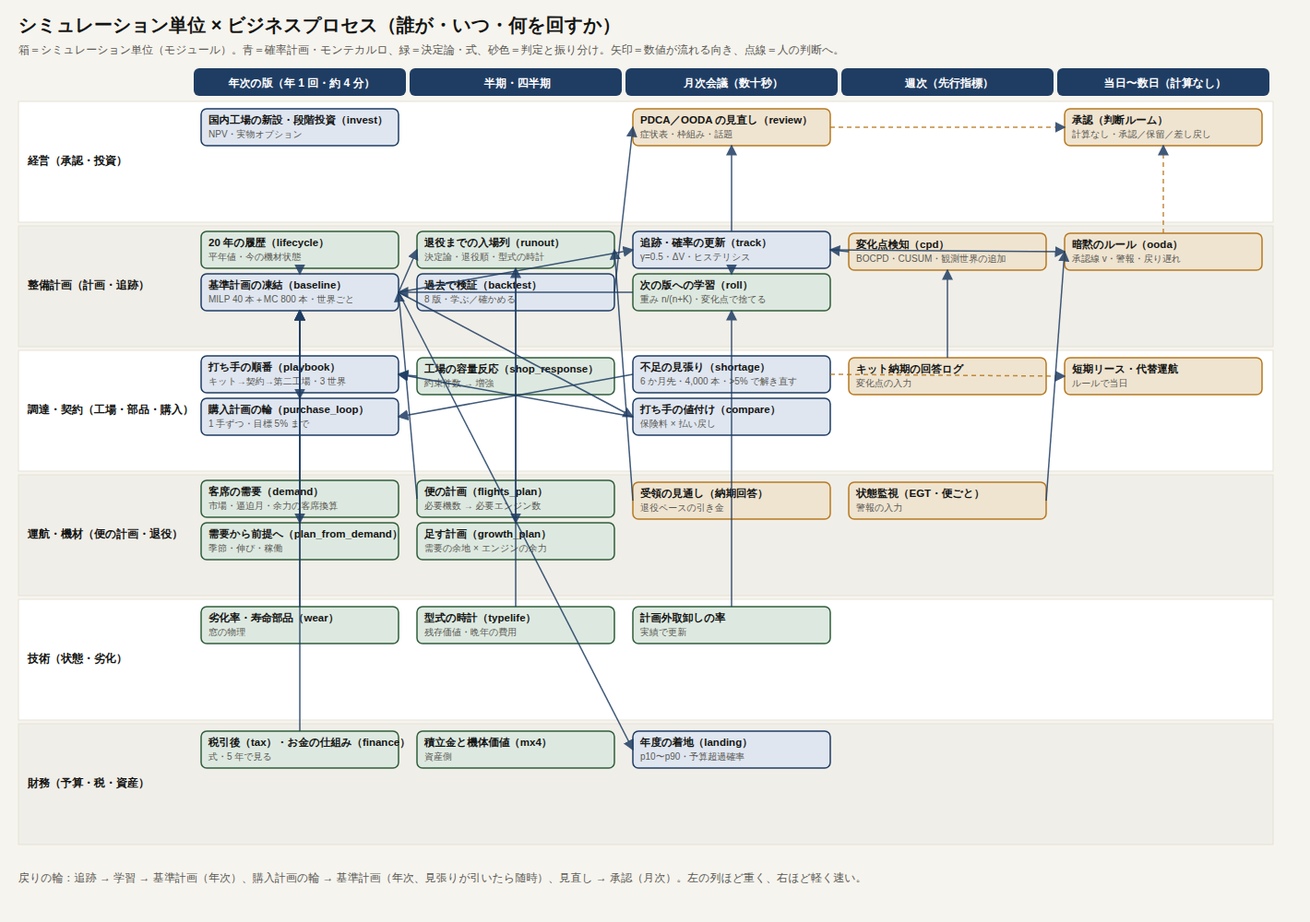
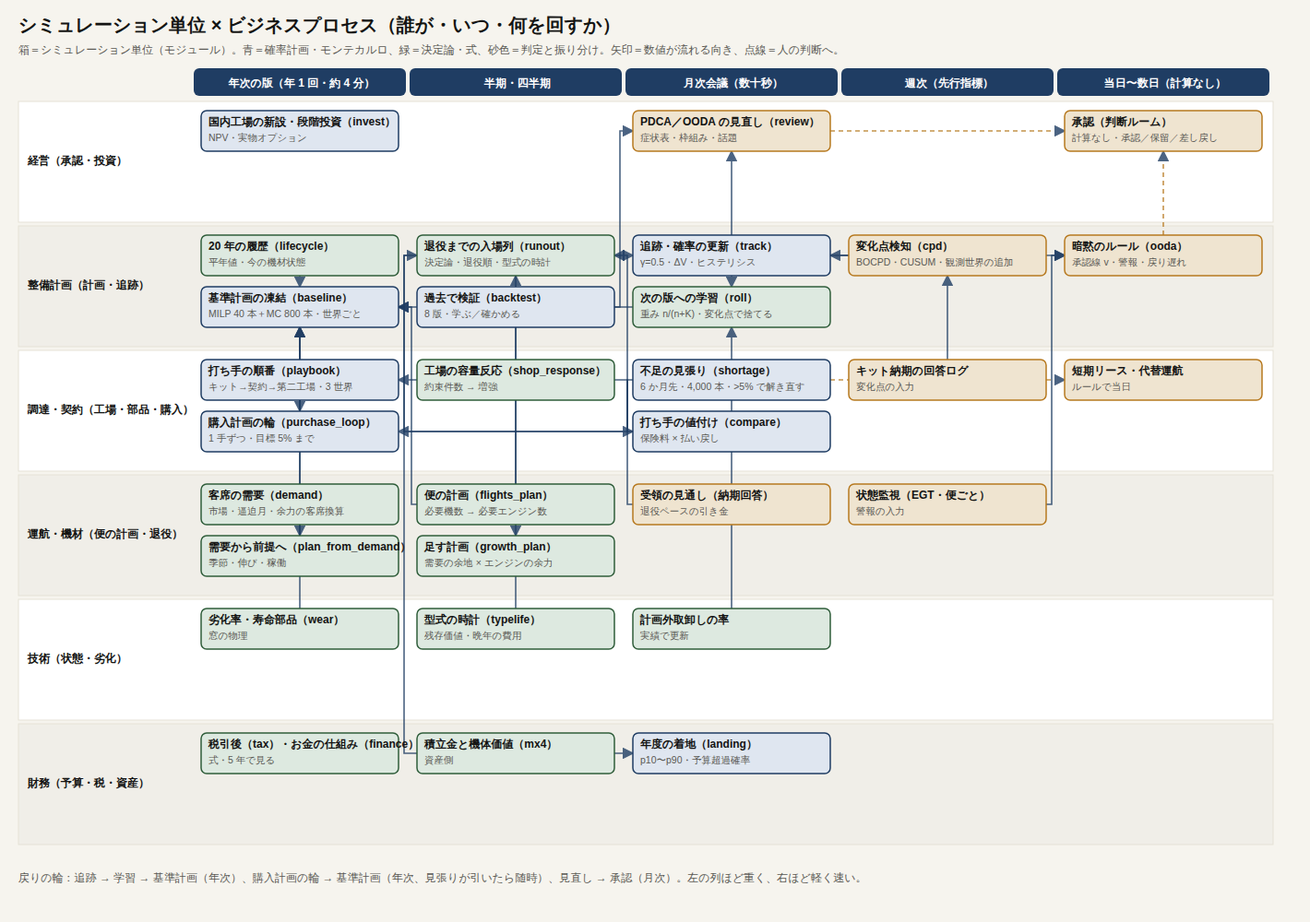
handover: process map redrawn with arrows routed in the gaps under the boxes (legible text)
Claude-Session: https://claude.ai/code/session_01C7dB8NjrbvR4TfsX9qG3hw

diff --git a/examples/engine-shop-selection-mc/handover/03_reports/sim_process_map.html b/examples/engine-shop-selection-mc/handover/03_reports/sim_process_map.html
@@ -1,1 +1,1 @@
-<!doctype html><html lang="ja"><head><meta charset="utf-8"><style>body{margin:0;background:#f6f4ee}</style></head><body><svg xmlns="http://www.w3.org/2000/svg" viewBox="0 0 1400 980" width="1400" height="980" font-family="IBM Plex Sans JP, sans-serif"><rect width="1400" height="980" fill="#f6f4ee"/><defs><marker id="ah" markerWidth="8" markerHeight="8" refX="7" refY="4" orient="auto"><path d="M0,0 L8,4 L0,8 z" fill="#1f3d63"/></marker></defs><text x="20" y="34" font-size="20" font-weight="700" fill="#141413">シミュレーション単位 × ビジネスプロセス（誰が・いつ・何を回すか）</text><text x="20" y="58" font-size="12" fill="#5b5a55">箱＝シミュレーション単位（モジュール）。青＝確率計画・モンテカルロ、緑＝決定論・式、砂色＝判定と振り分け。矢印＝数値が流れる向き、点線＝人の判断へ。</text><rect x="210.0" y="74" width="230.0" height="30" rx="6" fill="#1f3d63"/><text x="327.0" y="94" text-anchor="middle" font-size="12" fill="#fff" font-weight="700">年次の版（年 1 回・約 4 分）</text><rect x="444.0" y="74" width="230.0" height="30" rx="6" fill="#1f3d63"/><text x="561.0" y="94" text-anchor="middle" font-size="12" fill="#fff" font-weight="700">半期・四半期</text><rect x="678.0" y="74" width="230.0" height="30" rx="6" fill="#1f3d63"/><text x="795.0" y="94" text-anchor="middle" font-size="12" fill="#fff" font-weight="700">月次会議（数十秒）</text><rect x="912.0" y="74" width="230.0" height="30" rx="6" fill="#1f3d63"/><text x="1029.0" y="94" text-anchor="middle" font-size="12" fill="#fff" font-weight="700">週次（先行指標）</text><rect x="1146.0" y="74" width="230.0" height="30" rx="6" fill="#1f3d63"/><text x="1263.0" y="94" text-anchor="middle" font-size="12" fill="#fff" font-weight="700">当日〜数日（計算なし）</text><rect x="20" y="110.0" width="1360" height="131.0" fill="#ffffff" stroke="#e5e1d6"/><text x="30" y="177.5" font-size="12" font-weight="700" fill="#141413">経営（承認・投資）</text><rect x="20" y="245.0" width="1360" height="131.0" fill="#f0eee8" stroke="#e5e1d6"/><text x="30" y="312.5" font-size="12" font-weight="700" fill="#141413">整備計画（計画・追跡）</text><rect x="20" y="380.0" width="1360" height="131.0" fill="#ffffff" stroke="#e5e1d6"/><text x="30" y="447.5" font-size="12" font-weight="700" fill="#141413">調達・契約（工場・部品・購入）</text><rect x="20" y="515.0" width="1360" height="131.0" fill="#f0eee8" stroke="#e5e1d6"/><text x="30" y="582.5" font-size="12" font-weight="700" fill="#141413">運航・機材（便の計画・退役）</text><rect x="20" y="650.0" width="1360" height="131.0" fill="#ffffff" stroke="#e5e1d6"/><text x="30" y="717.5" font-size="12" font-weight="700" fill="#141413">技術（状態・劣化）</text><rect x="20" y="785.0" width="1360" height="131.0" fill="#f0eee8" stroke="#e5e1d6"/><text x="30" y="852.5" font-size="12" font-weight="700" fill="#141413">財務（予算・税・資産）</text><rect x="218.0" y="118.0" width="214.0" height="40" rx="6" fill="#dfe6f0" stroke="#1f3d63" stroke-width="1.5"/><text x="226.0" y="134.0" font-size="11.5" font-weight="700" fill="#141413">国内工場の新設・段階投資（invest）</text><text x="226.0" y="149.0" font-size="10" fill="#5b5a55">NPV・実物オプション</text><rect x="686.0" y="118.0" width="214.0" height="40" rx="6" fill="#efe4d0" stroke="#b7791f" stroke-width="1.5"/><text x="694.0" y="134.0" font-size="11.5" font-weight="700" fill="#141413">PDCA／OODA の見直し（review）</text><text x="694.0" y="149.0" font-size="10" fill="#5b5a55">症状表・枠組み・話題</text><rect x="1154.0" y="118.0" width="214.0" height="40" rx="6" fill="#efe4d0" stroke="#b7791f" stroke-width="1.5"/><text x="1162.0" y="134.0" font-size="11.5" font-weight="700" fill="#141413">承認（判断ルーム）</text><text x="1162.0" y="149.0" font-size="10" fill="#5b5a55">計算なし・承認／保留／差し戻し</text><rect x="218.0" y="251.0" width="214.0" height="40" rx="6" fill="#dde9e0" stroke="#2f5d3a" stroke-width="1.5"/><text x="226.0" y="267.0" font-size="11.5" font-weight="700" fill="#141413">20 年の履歴（lifecycle）</text><text x="226.0" y="282.0" font-size="10" fill="#5b5a55">平年値・今の機材状態</text><rect x="218.0" y="297.0" width="214.0" height="40" rx="6" fill="#dfe6f0" stroke="#1f3d63" stroke-width="1.5"/><text x="226.0" y="313.0" font-size="11.5" font-weight="700" fill="#141413">基準計画の凍結（baseline）</text><text x="226.0" y="328.0" font-size="10" fill="#5b5a55">MILP 40 本＋MC 800 本・世界ごと</text><rect x="452.0" y="251.0" width="214.0" height="40" rx="6" fill="#dde9e0" stroke="#2f5d3a" stroke-width="1.5"/><text x="460.0" y="267.0" font-size="11.5" font-weight="700" fill="#141413">退役までの入場列（runout）</text><text x="460.0" y="282.0" font-size="10" fill="#5b5a55">決定論・退役順・型式の時計</text><rect x="452.0" y="297.0" width="214.0" height="40" rx="6" fill="#dfe6f0" stroke="#1f3d63" stroke-width="1.5"/><text x="460.0" y="313.0" font-size="11.5" font-weight="700" fill="#141413">過去で検証（backtest）</text><text x="460.0" y="328.0" font-size="10" fill="#5b5a55">8 版・学ぶ／確かめる</text><rect x="686.0" y="251.0" width="214.0" height="40" rx="6" fill="#dfe6f0" stroke="#1f3d63" stroke-width="1.5"/><text x="694.0" y="267.0" font-size="11.5" font-weight="700" fill="#141413">追跡・確率の更新（track）</text><text x="694.0" y="282.0" font-size="10" fill="#5b5a55">γ=0.5・ΔV・ヒステリシス</text><rect x="686.0" y="297.0" width="214.0" height="40" rx="6" fill="#dde9e0" stroke="#2f5d3a" stroke-width="1.5"/><text x="694.0" y="313.0" font-size="11.5" font-weight="700" fill="#141413">次の版への学習（roll）</text><text x="694.0" y="328.0" font-size="10" fill="#5b5a55">重み n/(n+K)・変化点で捨てる</text><rect x="920.0" y="253.0" width="214.0" height="40" rx="6" fill="#efe4d0" stroke="#b7791f" stroke-width="1.5"/><text x="928.0" y="269.0" font-size="11.5" font-weight="700" fill="#141413">変化点検知（cpd）</text><text x="928.0" y="284.0" font-size="10" fill="#5b5a55">BOCPD・CUSUM・観測世界の追加</text><rect x="1154.0" y="253.0" width="214.0" height="40" rx="6" fill="#efe4d0" stroke="#b7791f" stroke-width="1.5"/><text x="1162.0" y="269.0" font-size="11.5" font-weight="700" fill="#141413">暗黙のルール（ooda）</text><text x="1162.0" y="284.0" font-size="10" fill="#5b5a55">承認線 v・警報・戻り遅れ</text><rect x="218.0" y="386.0" width="214.0" height="40" rx="6" fill="#dfe6f0" stroke="#1f3d63" stroke-width="1.5"/><text x="226.0" y="402.0" font-size="11.5" font-weight="700" fill="#141413">打ち手の順番（playbook）</text><text x="226.0" y="417.0" font-size="10" fill="#5b5a55">キット→契約→第二工場・3 世界</text><rect x="218.0" y="432.0" width="214.0" height="40" rx="6" fill="#dfe6f0" stroke="#1f3d63" stroke-width="1.5"/><text x="226.0" y="448.0" font-size="11.5" font-weight="700" fill="#141413">購入計画の輪（purchase_loop）</text><text x="226.0" y="463.0" font-size="10" fill="#5b5a55">1 手ずつ・目標 5% まで</text><rect x="452.0" y="388.0" width="214.0" height="40" rx="6" fill="#dde9e0" stroke="#2f5d3a" stroke-width="1.5"/><text x="460.0" y="404.0" font-size="11.5" font-weight="700" fill="#141413">工場の容量反応（shop_response）</text><text x="460.0" y="419.0" font-size="10" fill="#5b5a55">約束件数 → 増強</text><rect x="686.0" y="386.0" width="214.0" height="40" rx="6" fill="#dfe6f0" stroke="#1f3d63" stroke-width="1.5"/><text x="694.0" y="402.0" font-size="11.5" font-weight="700" fill="#141413">不足の見張り（shortage）</text><text x="694.0" y="417.0" font-size="10" fill="#5b5a55">6 か月先・4,000 本・>5% で解き直す</text><rect x="686.0" y="432.0" width="214.0" height="40" rx="6" fill="#dfe6f0" stroke="#1f3d63" stroke-width="1.5"/><text x="694.0" y="448.0" font-size="11.5" font-weight="700" fill="#141413">打ち手の値付け（compare）</text><text x="694.0" y="463.0" font-size="10" fill="#5b5a55">保険料 × 払い戻し</text><rect x="920.0" y="388.0" width="214.0" height="40" rx="6" fill="#efe4d0" stroke="#b7791f" stroke-width="1.5"/><text x="928.0" y="404.0" font-size="11.5" font-weight="700" fill="#141413">キット納期の回答ログ</text><text x="928.0" y="419.0" font-size="10" fill="#5b5a55">変化点の入力</text><rect x="1154.0" y="388.0" width="214.0" height="40" rx="6" fill="#efe4d0" stroke="#b7791f" stroke-width="1.5"/><text x="1162.0" y="404.0" font-size="11.5" font-weight="700" fill="#141413">短期リース・代替運航</text><text x="1162.0" y="419.0" font-size="10" fill="#5b5a55">ルールで当日</text><rect x="218.0" y="521.0" width="214.0" height="40" rx="6" fill="#dde9e0" stroke="#2f5d3a" stroke-width="1.5"/><text x="226.0" y="537.0" font-size="11.5" font-weight="700" fill="#141413">客席の需要（demand）</text><text x="226.0" y="552.0" font-size="10" fill="#5b5a55">市場・逼迫月・余力の客席換算</text><rect x="218.0" y="567.0" width="214.0" height="40" rx="6" fill="#dde9e0" stroke="#2f5d3a" stroke-width="1.5"/><text x="226.0" y="583.0" font-size="11.5" font-weight="700" fill="#141413">需要から前提へ（plan_from_demand）</text><text x="226.0" y="598.0" font-size="10" fill="#5b5a55">季節・伸び・稼働</text><rect x="452.0" y="521.0" width="214.0" height="40" rx="6" fill="#dde9e0" stroke="#2f5d3a" stroke-width="1.5"/><text x="460.0" y="537.0" font-size="11.5" font-weight="700" fill="#141413">便の計画（flights_plan）</text><text x="460.0" y="552.0" font-size="10" fill="#5b5a55">必要機数 → 必要エンジン数</text><rect x="452.0" y="567.0" width="214.0" height="40" rx="6" fill="#dde9e0" stroke="#2f5d3a" stroke-width="1.5"/><text x="460.0" y="583.0" font-size="11.5" font-weight="700" fill="#141413">足す計画（growth_plan）</text><text x="460.0" y="598.0" font-size="10" fill="#5b5a55">需要の余地 × エンジンの余力</text><rect x="686.0" y="523.0" width="214.0" height="40" rx="6" fill="#efe4d0" stroke="#b7791f" stroke-width="1.5"/><text x="694.0" y="539.0" font-size="11.5" font-weight="700" fill="#141413">受領の見通し（納期回答）</text><text x="694.0" y="554.0" font-size="10" fill="#5b5a55">退役ペースの引き金</text><rect x="920.0" y="523.0" width="214.0" height="40" rx="6" fill="#efe4d0" stroke="#b7791f" stroke-width="1.5"/><text x="928.0" y="539.0" font-size="11.5" font-weight="700" fill="#141413">状態監視（EGT・便ごと）</text><text x="928.0" y="554.0" font-size="10" fill="#5b5a55">警報の入力</text><rect x="218.0" y="658.0" width="214.0" height="40" rx="6" fill="#dde9e0" stroke="#2f5d3a" stroke-width="1.5"/><text x="226.0" y="674.0" font-size="11.5" font-weight="700" fill="#141413">劣化率・寿命部品（wear）</text><text x="226.0" y="689.0" font-size="10" fill="#5b5a55">窓の物理</text><rect x="452.0" y="658.0" width="214.0" height="40" rx="6" fill="#dde9e0" stroke="#2f5d3a" stroke-width="1.5"/><text x="460.0" y="674.0" font-size="11.5" font-weight="700" fill="#141413">型式の時計（typelife）</text><text x="460.0" y="689.0" font-size="10" fill="#5b5a55">残存価値・晩年の費用</text><rect x="686.0" y="658.0" width="214.0" height="40" rx="6" fill="#dde9e0" stroke="#2f5d3a" stroke-width="1.5"/><text x="694.0" y="674.0" font-size="11.5" font-weight="700" fill="#141413">計画外取卸しの率</text><text x="694.0" y="689.0" font-size="10" fill="#5b5a55">実績で更新</text><rect x="218.0" y="793.0" width="214.0" height="40" rx="6" fill="#dde9e0" stroke="#2f5d3a" stroke-width="1.5"/><text x="226.0" y="809.0" font-size="11.5" font-weight="700" fill="#141413">税引後（tax）・お金の仕組み（finance）</text><text x="226.0" y="824.0" font-size="10" fill="#5b5a55">式・5 年で見る</text><rect x="452.0" y="793.0" width="214.0" height="40" rx="6" fill="#dde9e0" stroke="#2f5d3a" stroke-width="1.5"/><text x="460.0" y="809.0" font-size="11.5" font-weight="700" fill="#141413">積立金と機体価値（mx4）</text><text x="460.0" y="824.0" font-size="10" fill="#5b5a55">資産側</text><rect x="686.0" y="793.0" width="214.0" height="40" rx="6" fill="#dfe6f0" stroke="#1f3d63" stroke-width="1.5"/><text x="694.0" y="809.0" font-size="11.5" font-weight="700" fill="#141413">年度の着地（landing）</text><text x="694.0" y="824.0" font-size="10" fill="#5b5a55">p10〜p90・予算超過確率</text><line x1="325.0" y1="291.0" x2="325.0" y2="297.0" stroke="#1f3d63" stroke-width="1.5" marker-end="url(#ah)" opacity=".85"/><line x1="452.0" y1="541.0" x2="432.0" y2="317.0" stroke="#1f3d63" stroke-width="1.5" marker-end="url(#ah)" opacity=".85"/><line x1="325.0" y1="561.0" x2="325.0" y2="567.0" stroke="#1f3d63" stroke-width="1.5" marker-end="url(#ah)" opacity=".85"/><line x1="325.0" y1="567.0" x2="325.0" y2="337.0" stroke="#1f3d63" stroke-width="1.5" marker-end="url(#ah)" opacity=".85"/><line x1="325.0" y1="658.0" x2="325.0" y2="337.0" stroke="#1f3d63" stroke-width="1.5" marker-end="url(#ah)" opacity=".85"/><line x1="432.0" y1="317.0" x2="452.0" y2="271.0" stroke="#1f3d63" stroke-width="1.5" marker-end="url(#ah)" opacity=".85"/><line x1="559.0" y1="658.0" x2="559.0" y2="291.0" stroke="#1f3d63" stroke-width="1.5" marker-end="url(#ah)" opacity=".85"/><line x1="432.0" y1="317.0" x2="686.0" y2="271.0" stroke="#1f3d63" stroke-width="1.5" marker-end="url(#ah)" opacity=".85"/><line x1="793.0" y1="291.0" x2="793.0" y2="297.0" stroke="#1f3d63" stroke-width="1.5" marker-end="url(#ah)" opacity=".85"/><line x1="686.0" y1="317.0" x2="432.0" y2="317.0" stroke="#1f3d63" stroke-width="1.5" marker-end="url(#ah)" opacity=".85"/><line x1="920.0" y1="273.0" x2="900.0" y2="271.0" stroke="#1f3d63" stroke-width="1.5" marker-end="url(#ah)" opacity=".85"/><line x1="1027.0" y1="388.0" x2="1027.0" y2="293.0" stroke="#1f3d63" stroke-width="1.5" marker-end="url(#ah)" opacity=".85"/><line x1="1134.0" y1="543.0" x2="1154.0" y2="273.0" stroke="#1f3d63" stroke-width="1.5" marker-end="url(#ah)" opacity=".85"/><line x1="900.0" y1="271.0" x2="1154.0" y2="273.0" stroke="#1f3d63" stroke-width="1.5" marker-end="url(#ah)" opacity=".85"/><line x1="686.0" y1="406.0" x2="432.0" y2="452.0" stroke="#1f3d63" stroke-width="1.5" marker-end="url(#ah)" opacity=".85"/><line x1="432.0" y1="317.0" x2="686.0" y2="452.0" stroke="#1f3d63" stroke-width="1.5" marker-end="url(#ah)" opacity=".85"/><line x1="686.0" y1="452.0" x2="432.0" y2="406.0" stroke="#1f3d63" stroke-width="1.5" marker-end="url(#ah)" opacity=".85"/><line x1="325.0" y1="426.0" x2="325.0" y2="432.0" stroke="#1f3d63" stroke-width="1.5" marker-end="url(#ah)" opacity=".85"/><line x1="325.0" y1="432.0" x2="325.0" y2="337.0" stroke="#1f3d63" stroke-width="1.5" marker-end="url(#ah)" opacity=".85"/><line x1="793.0" y1="251.0" x2="793.0" y2="158.0" stroke="#1f3d63" stroke-width="1.5" marker-end="url(#ah)" opacity=".85"/><line x1="666.0" y1="317.0" x2="686.0" y2="138.0" stroke="#1f3d63" stroke-width="1.5" marker-end="url(#ah)" opacity=".85"/><line x1="559.0" y1="291.0" x2="559.0" y2="567.0" stroke="#1f3d63" stroke-width="1.5" marker-end="url(#ah)" opacity=".85"/><line x1="686.0" y1="543.0" x2="666.0" y2="271.0" stroke="#1f3d63" stroke-width="1.5" marker-end="url(#ah)" opacity=".85"/><line x1="432.0" y1="317.0" x2="686.0" y2="813.0" stroke="#1f3d63" stroke-width="1.5" marker-end="url(#ah)" opacity=".85"/><line x1="325.0" y1="793.0" x2="325.0" y2="337.0" stroke="#1f3d63" stroke-width="1.5" marker-end="url(#ah)" opacity=".85"/><line x1="793.0" y1="658.0" x2="793.0" y2="337.0" stroke="#1f3d63" stroke-width="1.5" marker-end="url(#ah)" opacity=".85"/><line x1="452.0" y1="408.0" x2="432.0" y2="406.0" stroke="#1f3d63" stroke-width="1.5" marker-end="url(#ah)" opacity=".85"/><line x1="900.0" y1="138.0" x2="1154.0" y2="138.0" stroke="#b7791f" stroke-width="1.5" stroke-dasharray="5 4" marker-end="url(#ah)" opacity=".85"/><line x1="900.0" y1="406.0" x2="1154.0" y2="408.0" stroke="#b7791f" stroke-width="1.5" stroke-dasharray="5 4" marker-end="url(#ah)" opacity=".85"/><line x1="1261.0" y1="253.0" x2="1261.0" y2="158.0" stroke="#b7791f" stroke-width="1.5" stroke-dasharray="5 4" marker-end="url(#ah)" opacity=".85"/><text x="20" y="956" font-size="12" fill="#5b5a55">戻りの輪：追跡 → 学習 → 基準計画（年次）、購入計画の輪 → 基準計画（年次、見張りが引いたら随時）、見直し → 承認（月次）。左の列ほど重く、右ほど軽く速い。</text></svg></body></html>
+<!doctype html><html lang="ja"><head><meta charset="utf-8"><style>body{margin:0;background:#f6f4ee}</style></head><body><svg xmlns="http://www.w3.org/2000/svg" viewBox="0 0 1400 980" width="1400" height="980" font-family="IBM Plex Sans JP, sans-serif"><rect width="1400" height="980" fill="#f6f4ee"/><defs><marker id="ah" markerWidth="8" markerHeight="8" refX="7" refY="4" orient="auto"><path d="M0,0 L8,4 L0,8 z" fill="#1f3d63"/></marker></defs><text x="20" y="34" font-size="20" font-weight="700" fill="#141413">シミュレーション単位 × ビジネスプロセス（誰が・いつ・何を回すか）</text><text x="20" y="58" font-size="12" fill="#5b5a55">箱＝シミュレーション単位（モジュール）。青＝確率計画・モンテカルロ、緑＝決定論・式、砂色＝判定と振り分け。矢印＝数値が流れる向き、点線＝人の判断へ。</text><rect x="210.0" y="74" width="230.0" height="30" rx="6" fill="#1f3d63"/><text x="327.0" y="94" text-anchor="middle" font-size="12" fill="#fff" font-weight="700">年次の版（年 1 回・約 4 分）</text><rect x="444.0" y="74" width="230.0" height="30" rx="6" fill="#1f3d63"/><text x="561.0" y="94" text-anchor="middle" font-size="12" fill="#fff" font-weight="700">半期・四半期</text><rect x="678.0" y="74" width="230.0" height="30" rx="6" fill="#1f3d63"/><text x="795.0" y="94" text-anchor="middle" font-size="12" fill="#fff" font-weight="700">月次会議（数十秒）</text><rect x="912.0" y="74" width="230.0" height="30" rx="6" fill="#1f3d63"/><text x="1029.0" y="94" text-anchor="middle" font-size="12" fill="#fff" font-weight="700">週次（先行指標）</text><rect x="1146.0" y="74" width="230.0" height="30" rx="6" fill="#1f3d63"/><text x="1263.0" y="94" text-anchor="middle" font-size="12" fill="#fff" font-weight="700">当日〜数日（計算なし）</text><rect x="20" y="110.0" width="1360" height="131.0" fill="#ffffff" stroke="#e5e1d6"/><text x="30" y="177.5" font-size="12" font-weight="700" fill="#141413">経営（承認・投資）</text><rect x="20" y="245.0" width="1360" height="131.0" fill="#f0eee8" stroke="#e5e1d6"/><text x="30" y="312.5" font-size="12" font-weight="700" fill="#141413">整備計画（計画・追跡）</text><rect x="20" y="380.0" width="1360" height="131.0" fill="#ffffff" stroke="#e5e1d6"/><text x="30" y="447.5" font-size="12" font-weight="700" fill="#141413">調達・契約（工場・部品・購入）</text><rect x="20" y="515.0" width="1360" height="131.0" fill="#f0eee8" stroke="#e5e1d6"/><text x="30" y="582.5" font-size="12" font-weight="700" fill="#141413">運航・機材（便の計画・退役）</text><rect x="20" y="650.0" width="1360" height="131.0" fill="#ffffff" stroke="#e5e1d6"/><text x="30" y="717.5" font-size="12" font-weight="700" fill="#141413">技術（状態・劣化）</text><rect x="20" y="785.0" width="1360" height="131.0" fill="#f0eee8" stroke="#e5e1d6"/><text x="30" y="852.5" font-size="12" font-weight="700" fill="#141413">財務（予算・税・資産）</text><polyline fill="none" points="325.0,299.0 325.0,311.0" stroke="#1f3d63" stroke-width="1.6" marker-end="url(#ah)" opacity=".8"/><polyline fill="none" points="452.0,547.0 446.0,547.0 446.0,333.0 432.0,333.0" stroke="#1f3d63" stroke-width="1.6" marker-end="url(#ah)" opacity=".8"/><polyline fill="none" points="325.0,569.0 325.0,581.0" stroke="#1f3d63" stroke-width="1.6" marker-end="url(#ah)" opacity=".8"/><polyline fill="none" points="325.0,581.0 325.0,355.0" stroke="#1f3d63" stroke-width="1.6" marker-end="url(#ah)" opacity=".8"/><polyline fill="none" points="325.0,660.0 325.0,355.0" stroke="#1f3d63" stroke-width="1.6" marker-end="url(#ah)" opacity=".8"/><polyline fill="none" points="432.0,333.0 438.0,333.0 438.0,277.0 452.0,277.0" stroke="#1f3d63" stroke-width="1.6" marker-end="url(#ah)" opacity=".8"/><polyline fill="none" points="559.0,660.0 559.0,299.0" stroke="#1f3d63" stroke-width="1.6" marker-end="url(#ah)" opacity=".8"/><polyline fill="none" points="432.0,333.0 438.0,333.0 438.0,277.0 686.0,277.0" stroke="#1f3d63" stroke-width="1.6" marker-end="url(#ah)" opacity=".8"/><polyline fill="none" points="793.0,299.0 793.0,311.0" stroke="#1f3d63" stroke-width="1.6" marker-end="url(#ah)" opacity=".8"/><polyline fill="none" points="686.0,333.0 680.0,333.0 680.0,333.0 432.0,333.0" stroke="#1f3d63" stroke-width="1.6" marker-end="url(#ah)" opacity=".8"/><polyline fill="none" points="920.0,277.0 914.0,277.0 914.0,277.0 900.0,277.0" stroke="#1f3d63" stroke-width="1.6" marker-end="url(#ah)" opacity=".8"/><polyline fill="none" points="1027.0,390.0 1027.0,299.0" stroke="#1f3d63" stroke-width="1.6" marker-end="url(#ah)" opacity=".8"/><polyline fill="none" points="1134.0,547.0 1140.0,547.0 1140.0,277.0 1154.0,277.0" stroke="#1f3d63" stroke-width="1.6" marker-end="url(#ah)" opacity=".8"/><polyline fill="none" points="900.0,277.0 906.0,277.0 906.0,277.0 1154.0,277.0" stroke="#1f3d63" stroke-width="1.6" marker-end="url(#ah)" opacity=".8"/><polyline fill="none" points="686.0,412.0 680.0,412.0 680.0,468.0 432.0,468.0" stroke="#1f3d63" stroke-width="1.6" marker-end="url(#ah)" opacity=".8"/><polyline fill="none" points="432.0,333.0 438.0,333.0 438.0,468.0 686.0,468.0" stroke="#1f3d63" stroke-width="1.6" marker-end="url(#ah)" opacity=".8"/><polyline fill="none" points="686.0,468.0 680.0,468.0 680.0,412.0 432.0,412.0" stroke="#1f3d63" stroke-width="1.6" marker-end="url(#ah)" opacity=".8"/><polyline fill="none" points="325.0,434.0 325.0,446.0" stroke="#1f3d63" stroke-width="1.6" marker-end="url(#ah)" opacity=".8"/><polyline fill="none" points="325.0,446.0 325.0,355.0" stroke="#1f3d63" stroke-width="1.6" marker-end="url(#ah)" opacity=".8"/><polyline fill="none" points="793.0,255.0 793.0,164.0" stroke="#1f3d63" stroke-width="1.6" marker-end="url(#ah)" opacity=".8"/><polyline fill="none" points="666.0,333.0 672.0,333.0 672.0,142.0 686.0,142.0" stroke="#1f3d63" stroke-width="1.6" marker-end="url(#ah)" opacity=".8"/><polyline fill="none" points="559.0,299.0 559.0,581.0" stroke="#1f3d63" stroke-width="1.6" marker-end="url(#ah)" opacity=".8"/><polyline fill="none" points="686.0,547.0 680.0,547.0 680.0,277.0 666.0,277.0" stroke="#1f3d63" stroke-width="1.6" marker-end="url(#ah)" opacity=".8"/><polyline fill="none" points="432.0,333.0 438.0,333.0 438.0,817.0 686.0,817.0" stroke="#1f3d63" stroke-width="1.6" marker-end="url(#ah)" opacity=".8"/><polyline fill="none" points="793.0,660.0 793.0,355.0" stroke="#1f3d63" stroke-width="1.6" marker-end="url(#ah)" opacity=".8"/><polyline fill="none" points="900.0,142.0 906.0,142.0 906.0,142.0 1154.0,142.0" stroke="#b7791f" stroke-width="1.6" stroke-dasharray="5 4" marker-end="url(#ah)" opacity=".8"/><polyline fill="none" points="900.0,412.0 906.0,412.0 906.0,412.0 1154.0,412.0" stroke="#b7791f" stroke-width="1.6" stroke-dasharray="5 4" marker-end="url(#ah)" opacity=".8"/><polyline fill="none" points="1261.0,255.0 1261.0,164.0" stroke="#b7791f" stroke-width="1.6" stroke-dasharray="5 4" marker-end="url(#ah)" opacity=".8"/><rect x="218.0" y="120.0" width="214.0" height="44" rx="6" fill="#dfe6f0" stroke="#1f3d63" stroke-width="1.5"/><text x="226.0" y="136.0" font-size="12" font-weight="700" fill="#141413">国内工場の新設・段階投資（invest）</text><text x="226.0" y="153.0" font-size="10.5" fill="#5b5a55">NPV・実物オプション</text><rect x="686.0" y="120.0" width="214.0" height="44" rx="6" fill="#efe4d0" stroke="#b7791f" stroke-width="1.5"/><text x="694.0" y="136.0" font-size="12" font-weight="700" fill="#141413">PDCA／OODA の見直し（review）</text><text x="694.0" y="153.0" font-size="10.5" fill="#5b5a55">症状表・枠組み・話題</text><rect x="1154.0" y="120.0" width="214.0" height="44" rx="6" fill="#efe4d0" stroke="#b7791f" stroke-width="1.5"/><text x="1162.0" y="136.0" font-size="12" font-weight="700" fill="#141413">承認（判断ルーム）</text><text x="1162.0" y="153.0" font-size="10.5" fill="#5b5a55">計算なし・承認／保留／差し戻し</text><rect x="218.0" y="255.0" width="214.0" height="44" rx="6" fill="#dde9e0" stroke="#2f5d3a" stroke-width="1.5"/><text x="226.0" y="271.0" font-size="12" font-weight="700" fill="#141413">20 年の履歴（lifecycle）</text><text x="226.0" y="288.0" font-size="10.5" fill="#5b5a55">平年値・今の機材状態</text><rect x="218.0" y="311.0" width="214.0" height="44" rx="6" fill="#dfe6f0" stroke="#1f3d63" stroke-width="1.5"/><text x="226.0" y="327.0" font-size="12" font-weight="700" fill="#141413">基準計画の凍結（baseline）</text><text x="226.0" y="344.0" font-size="10.5" fill="#5b5a55">MILP 40 本＋MC 800 本・世界ごと</text><rect x="452.0" y="255.0" width="214.0" height="44" rx="6" fill="#dde9e0" stroke="#2f5d3a" stroke-width="1.5"/><text x="460.0" y="271.0" font-size="12" font-weight="700" fill="#141413">退役までの入場列（runout）</text><text x="460.0" y="288.0" font-size="10.5" fill="#5b5a55">決定論・退役順・型式の時計</text><rect x="452.0" y="311.0" width="214.0" height="44" rx="6" fill="#dfe6f0" stroke="#1f3d63" stroke-width="1.5"/><text x="460.0" y="327.0" font-size="12" font-weight="700" fill="#141413">過去で検証（backtest）</text><text x="460.0" y="344.0" font-size="10.5" fill="#5b5a55">8 版・学ぶ／確かめる</text><rect x="686.0" y="255.0" width="214.0" height="44" rx="6" fill="#dfe6f0" stroke="#1f3d63" stroke-width="1.5"/><text x="694.0" y="271.0" font-size="12" font-weight="700" fill="#141413">追跡・確率の更新（track）</text><text x="694.0" y="288.0" font-size="10.5" fill="#5b5a55">γ=0.5・ΔV・ヒステリシス</text><rect x="686.0" y="311.0" width="214.0" height="44" rx="6" fill="#dde9e0" stroke="#2f5d3a" stroke-width="1.5"/><text x="694.0" y="327.0" font-size="12" font-weight="700" fill="#141413">次の版への学習（roll）</text><text x="694.0" y="344.0" font-size="10.5" fill="#5b5a55">重み n/(n+K)・変化点で捨てる</text><rect x="920.0" y="255.0" width="214.0" height="44" rx="6" fill="#efe4d0" stroke="#b7791f" stroke-width="1.5"/><text x="928.0" y="271.0" font-size="12" font-weight="700" fill="#141413">変化点検知（cpd）</text><text x="928.0" y="288.0" font-size="10.5" fill="#5b5a55">BOCPD・CUSUM・観測世界の追加</text><rect x="1154.0" y="255.0" width="214.0" height="44" rx="6" fill="#efe4d0" stroke="#b7791f" stroke-width="1.5"/><text x="1162.0" y="271.0" font-size="12" font-weight="700" fill="#141413">暗黙のルール（ooda）</text><text x="1162.0" y="288.0" font-size="10.5" fill="#5b5a55">承認線 v・警報・戻り遅れ</text><rect x="218.0" y="390.0" width="214.0" height="44" rx="6" fill="#dfe6f0" stroke="#1f3d63" stroke-width="1.5"/><text x="226.0" y="406.0" font-size="12" font-weight="700" fill="#141413">打ち手の順番（playbook）</text><text x="226.0" y="423.0" font-size="10.5" fill="#5b5a55">キット→契約→第二工場・3 世界</text><rect x="218.0" y="446.0" width="214.0" height="44" rx="6" fill="#dfe6f0" stroke="#1f3d63" stroke-width="1.5"/><text x="226.0" y="462.0" font-size="12" font-weight="700" fill="#141413">購入計画の輪（purchase_loop）</text><text x="226.0" y="479.0" font-size="10.5" fill="#5b5a55">1 手ずつ・目標 5% まで</text><rect x="452.0" y="390.0" width="214.0" height="44" rx="6" fill="#dde9e0" stroke="#2f5d3a" stroke-width="1.5"/><text x="460.0" y="406.0" font-size="12" font-weight="700" fill="#141413">工場の容量反応（shop_response）</text><text x="460.0" y="423.0" font-size="10.5" fill="#5b5a55">約束件数 → 増強</text><rect x="686.0" y="390.0" width="214.0" height="44" rx="6" fill="#dfe6f0" stroke="#1f3d63" stroke-width="1.5"/><text x="694.0" y="406.0" font-size="12" font-weight="700" fill="#141413">不足の見張り（shortage）</text><text x="694.0" y="423.0" font-size="10.5" fill="#5b5a55">6 か月先・4,000 本・>5% で解き直す</text><rect x="686.0" y="446.0" width="214.0" height="44" rx="6" fill="#dfe6f0" stroke="#1f3d63" stroke-width="1.5"/><text x="694.0" y="462.0" font-size="12" font-weight="700" fill="#141413">打ち手の値付け（compare）</text><text x="694.0" y="479.0" font-size="10.5" fill="#5b5a55">保険料 × 払い戻し</text><rect x="920.0" y="390.0" width="214.0" height="44" rx="6" fill="#efe4d0" stroke="#b7791f" stroke-width="1.5"/><text x="928.0" y="406.0" font-size="12" font-weight="700" fill="#141413">キット納期の回答ログ</text><text x="928.0" y="423.0" font-size="10.5" fill="#5b5a55">変化点の入力</text><rect x="1154.0" y="390.0" width="214.0" height="44" rx="6" fill="#efe4d0" stroke="#b7791f" stroke-width="1.5"/><text x="1162.0" y="406.0" font-size="12" font-weight="700" fill="#141413">短期リース・代替運航</text><text x="1162.0" y="423.0" font-size="10.5" fill="#5b5a55">ルールで当日</text><rect x="218.0" y="525.0" width="214.0" height="44" rx="6" fill="#dde9e0" stroke="#2f5d3a" stroke-width="1.5"/><text x="226.0" y="541.0" font-size="12" font-weight="700" fill="#141413">客席の需要（demand）</text><text x="226.0" y="558.0" font-size="10.5" fill="#5b5a55">市場・逼迫月・余力の客席換算</text><rect x="218.0" y="581.0" width="214.0" height="44" rx="6" fill="#dde9e0" stroke="#2f5d3a" stroke-width="1.5"/><text x="226.0" y="597.0" font-size="12" font-weight="700" fill="#141413">需要から前提へ（plan_from_demand）</text><text x="226.0" y="614.0" font-size="10.5" fill="#5b5a55">季節・伸び・稼働</text><rect x="452.0" y="525.0" width="214.0" height="44" rx="6" fill="#dde9e0" stroke="#2f5d3a" stroke-width="1.5"/><text x="460.0" y="541.0" font-size="12" font-weight="700" fill="#141413">便の計画（flights_plan）</text><text x="460.0" y="558.0" font-size="10.5" fill="#5b5a55">必要機数 → 必要エンジン数</text><rect x="452.0" y="581.0" width="214.0" height="44" rx="6" fill="#dde9e0" stroke="#2f5d3a" stroke-width="1.5"/><text x="460.0" y="597.0" font-size="12" font-weight="700" fill="#141413">足す計画（growth_plan）</text><text x="460.0" y="614.0" font-size="10.5" fill="#5b5a55">需要の余地 × エンジンの余力</text><rect x="686.0" y="525.0" width="214.0" height="44" rx="6" fill="#efe4d0" stroke="#b7791f" stroke-width="1.5"/><text x="694.0" y="541.0" font-size="12" font-weight="700" fill="#141413">受領の見通し（納期回答）</text><text x="694.0" y="558.0" font-size="10.5" fill="#5b5a55">退役ペースの引き金</text><rect x="920.0" y="525.0" width="214.0" height="44" rx="6" fill="#efe4d0" stroke="#b7791f" stroke-width="1.5"/><text x="928.0" y="541.0" font-size="12" font-weight="700" fill="#141413">状態監視（EGT・便ごと）</text><text x="928.0" y="558.0" font-size="10.5" fill="#5b5a55">警報の入力</text><rect x="218.0" y="660.0" width="214.0" height="44" rx="6" fill="#dde9e0" stroke="#2f5d3a" stroke-width="1.5"/><text x="226.0" y="676.0" font-size="12" font-weight="700" fill="#141413">劣化率・寿命部品（wear）</text><text x="226.0" y="693.0" font-size="10.5" fill="#5b5a55">窓の物理</text><rect x="452.0" y="660.0" width="214.0" height="44" rx="6" fill="#dde9e0" stroke="#2f5d3a" stroke-width="1.5"/><text x="460.0" y="676.0" font-size="12" font-weight="700" fill="#141413">型式の時計（typelife）</text><text x="460.0" y="693.0" font-size="10.5" fill="#5b5a55">残存価値・晩年の費用</text><rect x="686.0" y="660.0" width="214.0" height="44" rx="6" fill="#dde9e0" stroke="#2f5d3a" stroke-width="1.5"/><text x="694.0" y="676.0" font-size="12" font-weight="700" fill="#141413">計画外取卸しの率</text><text x="694.0" y="693.0" font-size="10.5" fill="#5b5a55">実績で更新</text><rect x="218.0" y="795.0" width="214.0" height="44" rx="6" fill="#dde9e0" stroke="#2f5d3a" stroke-width="1.5"/><text x="226.0" y="811.0" font-size="12" font-weight="700" fill="#141413">税引後（tax）・お金の仕組み（finance）</text><text x="226.0" y="828.0" font-size="10.5" fill="#5b5a55">式・5 年で見る</text><rect x="452.0" y="795.0" width="214.0" height="44" rx="6" fill="#dde9e0" stroke="#2f5d3a" stroke-width="1.5"/><text x="460.0" y="811.0" font-size="12" font-weight="700" fill="#141413">積立金と機体価値（mx4）</text><text x="460.0" y="828.0" font-size="10.5" fill="#5b5a55">資産側</text><rect x="686.0" y="795.0" width="214.0" height="44" rx="6" fill="#dfe6f0" stroke="#1f3d63" stroke-width="1.5"/><text x="694.0" y="811.0" font-size="12" font-weight="700" fill="#141413">年度の着地（landing）</text><text x="694.0" y="828.0" font-size="10.5" fill="#5b5a55">p10〜p90・予算超過確率</text><text x="20" y="956" font-size="12" fill="#5b5a55">戻りの輪：追跡 → 学習 → 基準計画（年次）、購入計画の輪 → 基準計画（年次、見張りが引いたら随時）、見直し → 承認（月次）。左の列ほど重く、右ほど軽く速い。</text></svg></body></html>
